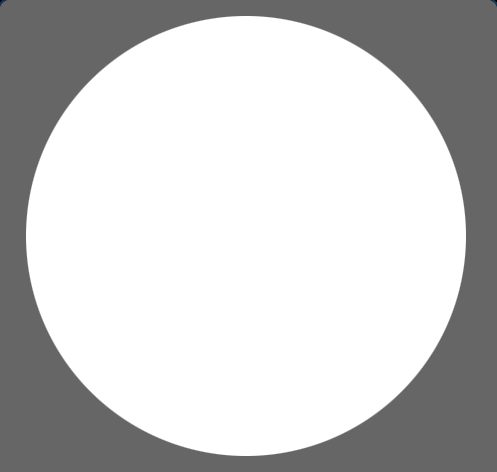
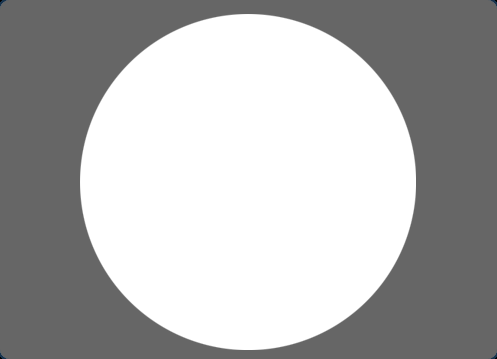
Smaller map

diff --git a/app/stylesheets/criteria.css.less b/app/stylesheets/criteria.css.less
@@ -190,20 +190,19 @@
   top      : 215px;
   right    : 0;
   left     : 0;
-  height   : 495px;
-  .iwitness-border-with-radius(14px);
+  height   : 410px;
 }
 
 #map, #starred-map {
   width  : 497px;
-  height : 472px;
-  .rounded(14px);
+  height : 359px;
+  .iwitness-border-with-radius(14px);
 }
 
 #address-field {
   overflow       : hidden;
   position       : absolute;
-  top            : 725px;
+  top            : 632px;
   right          : 0;
   left           : 0;
   height         : 51px;
@@ -251,38 +250,31 @@
   right      : 0;
   bottom     : 0;
   left       : 0;
-  height     : 16px;
-  border-top : 3px solid @iwitness-blue;
+  height     : 28px;
+  .iwitness-border-with-radius(14px);
   .user-select(none);
+  .gradient(#061826, #020f17, #0a2034);
 
-  .slider {
+  .slider, .progress {
     position   : absolute;
-    top        : 1px;
-    left       : 28px;
-    width      : 444px;
-    left       : 29px;
-    height     : 14px;
+    top        : 3px;
+    left       : 31px;
+    height     : 21px;
     border     : 0;
     background : url(images/zoom_level.png);
     .border-radius(0);
   }
 
+  .slider { width : 435px; }
+
   .progress {
-    position   : absolute;
-    top        : 1px;
-    left       : 28px;
-    width      : 442px;
-    left       : 29px;
-    height     : 14px;
-    border     : 0;
-    background : url(images/zoom_level.png) 0 -14px;
-    .border-radius(0);
-    pointer-events: none;
+    background-position : 0 -21px;
+    pointer-events      : none;
   }
 
   // created by jquery-ui, and we can't add another class
   .ui-slider-handle {
-    top        : -3px;
+    top        : 0;
     width      : 35px;
     height     : 24px;
     border     : 0;

diff --git a/app/services/map.js b/app/services/map.js
@@ -231,7 +231,7 @@ var Map = function(element, lat, lng, zoom) {
 };
 
 // radius of circle overlay / (height of map / 2)
-Map.circleRadiusRatio = 0.932; // = 220 / (472 / 2)
+Map.circleRadiusRatio = 0.935; // = 168 / (359 / 2)
 
 _.extend(Map.prototype, {
   addListener: function(type, handler) {
